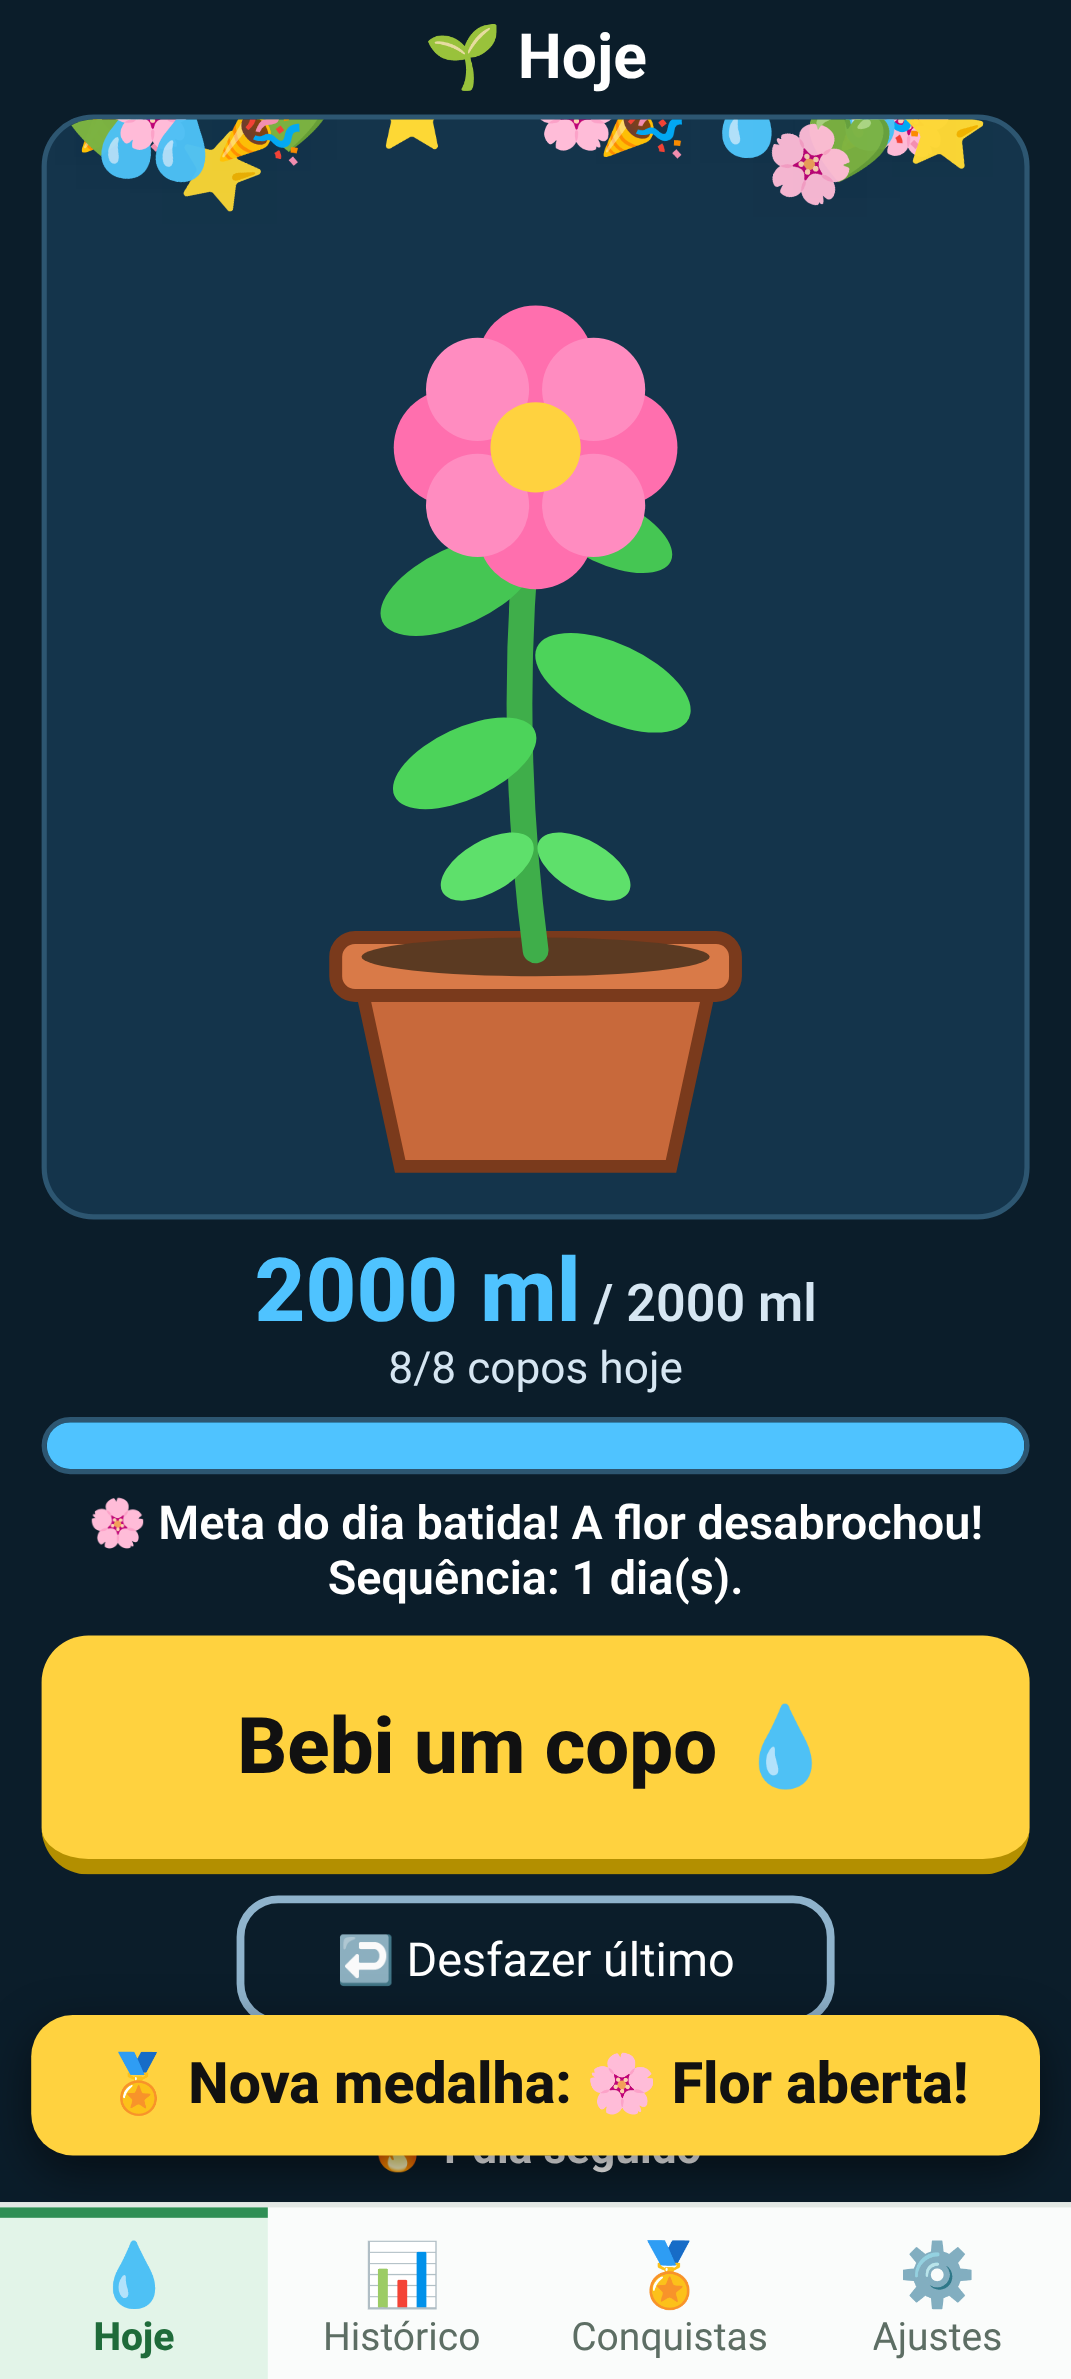
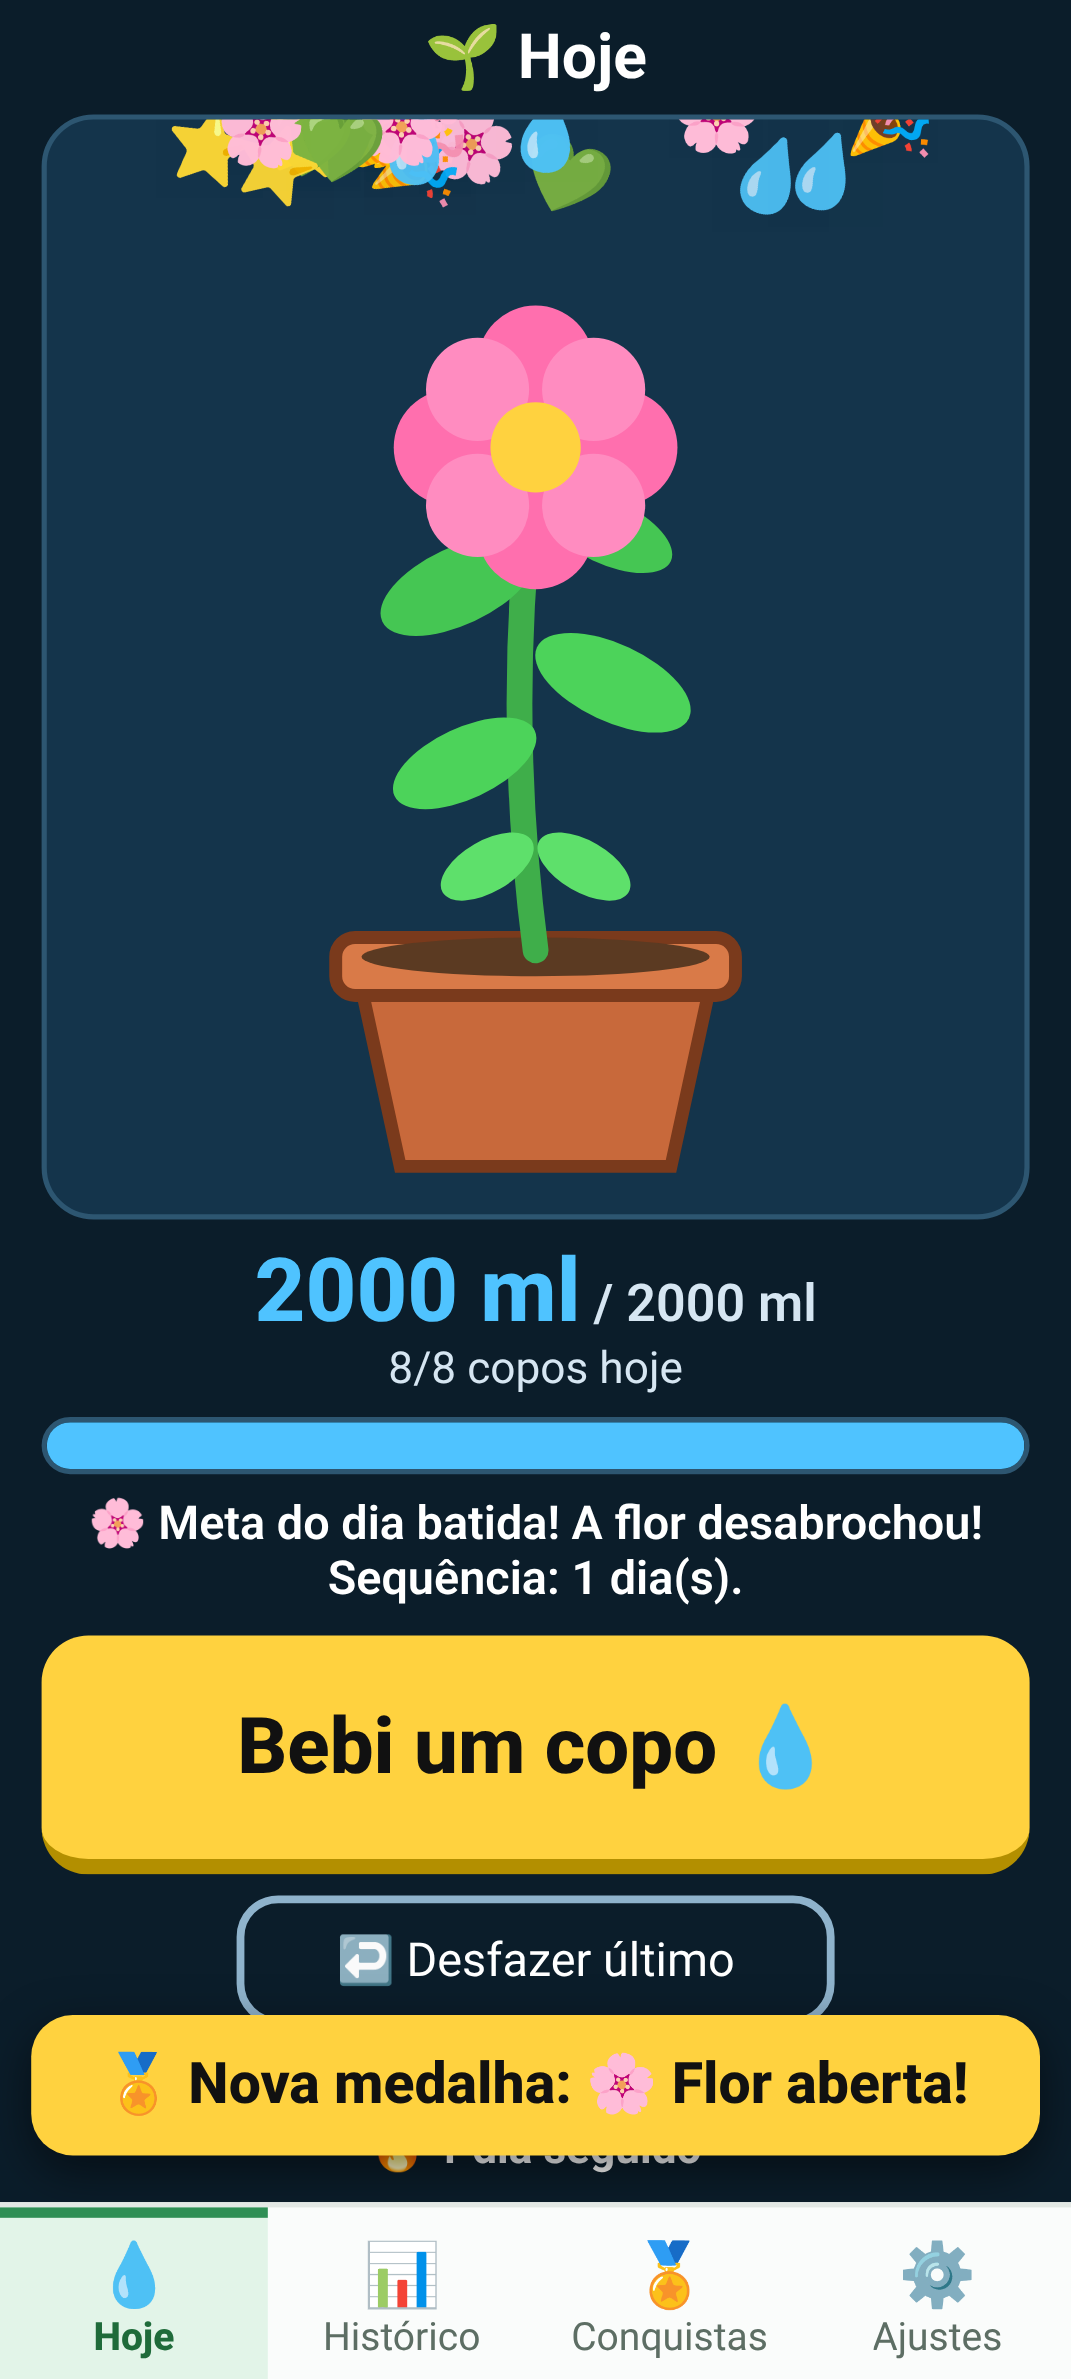
Permissões do alarme: função pura (quais faltam, texto do botão, pedido em sequência) + 7 testes

Changed region(s): [[0.0616, 0.0311, 0.9244, 0.0933]]

diff --git a/__tests__/permissoes.test.js b/__tests__/permissoes.test.js
@@ -1,0 +1,46 @@
+// Botão único ⚠ de permissões em Ajustes (src/logica/permissoes.ts).
+const P = require('../src/logica/permissoes');
+const android = { avisaFechado: true, alarmeNativo: true, ligado: true, exato: true, telaOk: true };
+
+test('faltam as duas: alarme na hora certa primeiro, depois tela cheia', () => {
+  expect(P.permissoesFaltando({ ...android, exato: false, telaOk: false })).toEqual(['exato', 'telaCheia']);
+});
+test('falta só uma: o botão pede só essa', () => {
+  expect(P.permissoesFaltando({ ...android, exato: false })).toEqual(['exato']);
+  expect(P.permissoesFaltando({ ...android, telaOk: false })).toEqual(['telaCheia']);
+});
+test('nada falta, despertador desligado ou web: sem botão', () => {
+  expect(P.permissoesFaltando(android)).toEqual([]);
+  expect(P.permissoesFaltando({ ...android, ligado: false, exato: false, telaOk: false })).toEqual([]);
+  expect(P.permissoesFaltando({ avisaFechado: false, alarmeNativo: false, ligado: true, exato: false, telaOk: false })).toEqual([]);
+  expect(P.rotuloPermissoes([])).toBeNull();
+});
+test('mesmas condições dos 2 botões antigos (avisaFechado → exato, alarmeNativo → tela cheia)', () => {
+  expect(P.permissoesFaltando({ ...android, alarmeNativo: false, exato: false, telaOk: false })).toEqual(['exato']);
+  expect(P.permissoesFaltando({ ...android, avisaFechado: false, exato: false, telaOk: false })).toEqual(['telaCheia']);
+});
+test('texto em português: o das duas e os mesmos de antes para uma só', () => {
+  expect(P.rotuloPermissoes(['exato', 'telaCheia'])).toBe('⚠ Permitir alarmes e tela cheia');
+  expect(P.rotuloPermissoes(['exato'])).toBe('⚠ Permitir alarmes na hora certa');
+  expect(P.rotuloPermissoes(['telaCheia'])).toBe('⚠ Permitir alarme em tela cheia');
+});
+test('pede em sequência: a próxima só começa depois da anterior responder', async () => {
+  const log = []; let solta;
+  const pedir = {
+    exato: () => { log.push('pede exato'); return new Promise((r) => { solta = r; }); },
+    telaCheia: () => { log.push('pede tela'); return Promise.resolve(true); },
+  };
+  const fim = P.pedirEmSequencia(['exato', 'telaCheia'], pedir, (q, ok) => log.push(q + '=' + ok));
+  await Promise.resolve(); await Promise.resolve();
+  expect(log).toEqual(['pede exato']); // tela cheia ainda não foi pedida
+  solta(false); // "Agora não" no primeiro: segue para o próximo, como ao ligar o despertador
+  expect(await fim).toEqual({ exato: false, telaCheia: true });
+  expect(log).toEqual(['pede exato', 'exato=false', 'pede tela', 'telaCheia=true']);
+});
+test('com uma só, pede só essa; erro conta como não permitido', async () => {
+  const chamadas = [];
+  const pedir = { exato: () => { chamadas.push('exato'); return Promise.resolve(true); }, telaCheia: () => { chamadas.push('tela'); return Promise.reject(new Error('x')); } };
+  expect(await P.pedirEmSequencia(['telaCheia'], pedir, () => {})).toEqual({ telaCheia: false });
+  expect(chamadas).toEqual(['tela']);
+  expect(await P.pedirEmSequencia([], pedir, () => {})).toEqual({});
+});

diff --git a/src/logica/permissoes.ts b/src/logica/permissoes.ts
@@ -1,0 +1,47 @@
+// Botão único ⚠ de Ajustes › Despertador: quais permissões do alarme faltam, o texto do botão
+// e o pedido em sequência (a próxima só depois que a anterior responder). Funções puras (testes no Jest).
+
+/** 'exato' = "Alarmes e lembretes" (Android 12+); 'telaCheia' = alarme em tela cheia (Android 14+). */
+export type PermAlarme = 'exato' | 'telaCheia';
+
+export interface SituacaoPerm {
+  avisaFechado: boolean; // o app agenda o aviso com ele fechado (Android)
+  alarmeNativo: boolean; // o alarme nativo em tela cheia existe (APK Android)
+  ligado: boolean;       // despertador ligado
+  exato: boolean;        // "Alarmes e lembretes" permitido
+  telaOk: boolean;       // tela cheia permitida
+}
+
+/** Permissões que faltam, na ordem em que são pedidas (as mesmas condições dos 2 botões antigos). */
+export function permissoesFaltando(s: SituacaoPerm): PermAlarme[] {
+  if (!s.ligado) return [];
+  const f: PermAlarme[] = [];
+  if (s.avisaFechado && !s.exato) f.push('exato');
+  if (s.alarmeNativo && !s.telaOk) f.push('telaCheia');
+  return f;
+}
+
+/** Texto do botão único; null = nada falta (botão some). Com uma só, o mesmo texto do botão antigo. */
+export function rotuloPermissoes(f: readonly PermAlarme[]): string | null {
+  if (!f.length) return null;
+  if (f.length > 1) return '⚠ Permitir alarmes e tela cheia';
+  return f[0] === 'exato' ? '⚠ Permitir alarmes na hora certa' : '⚠ Permitir alarme em tela cheia';
+}
+
+/**
+ * Pede cada permissão de `f`, uma por vez: a próxima só começa depois que a anterior responder
+ * (como já acontece ao ligar o despertador). Avisa cada resultado em `aoResponder`.
+ */
+export async function pedirEmSequencia(
+  f: readonly PermAlarme[],
+  pedir: Record<PermAlarme, () => Promise<boolean>>,
+  aoResponder: (qual: PermAlarme, ok: boolean) => void,
+): Promise<Partial<Record<PermAlarme, boolean>>> {
+  const r: Partial<Record<PermAlarme, boolean>> = {};
+  for (const q of f) {
+    let ok = false;
+    try { ok = await pedir[q](); } catch { ok = false; }
+    r[q] = ok; aoResponder(q, ok);
+  }
+  return r;
+}
